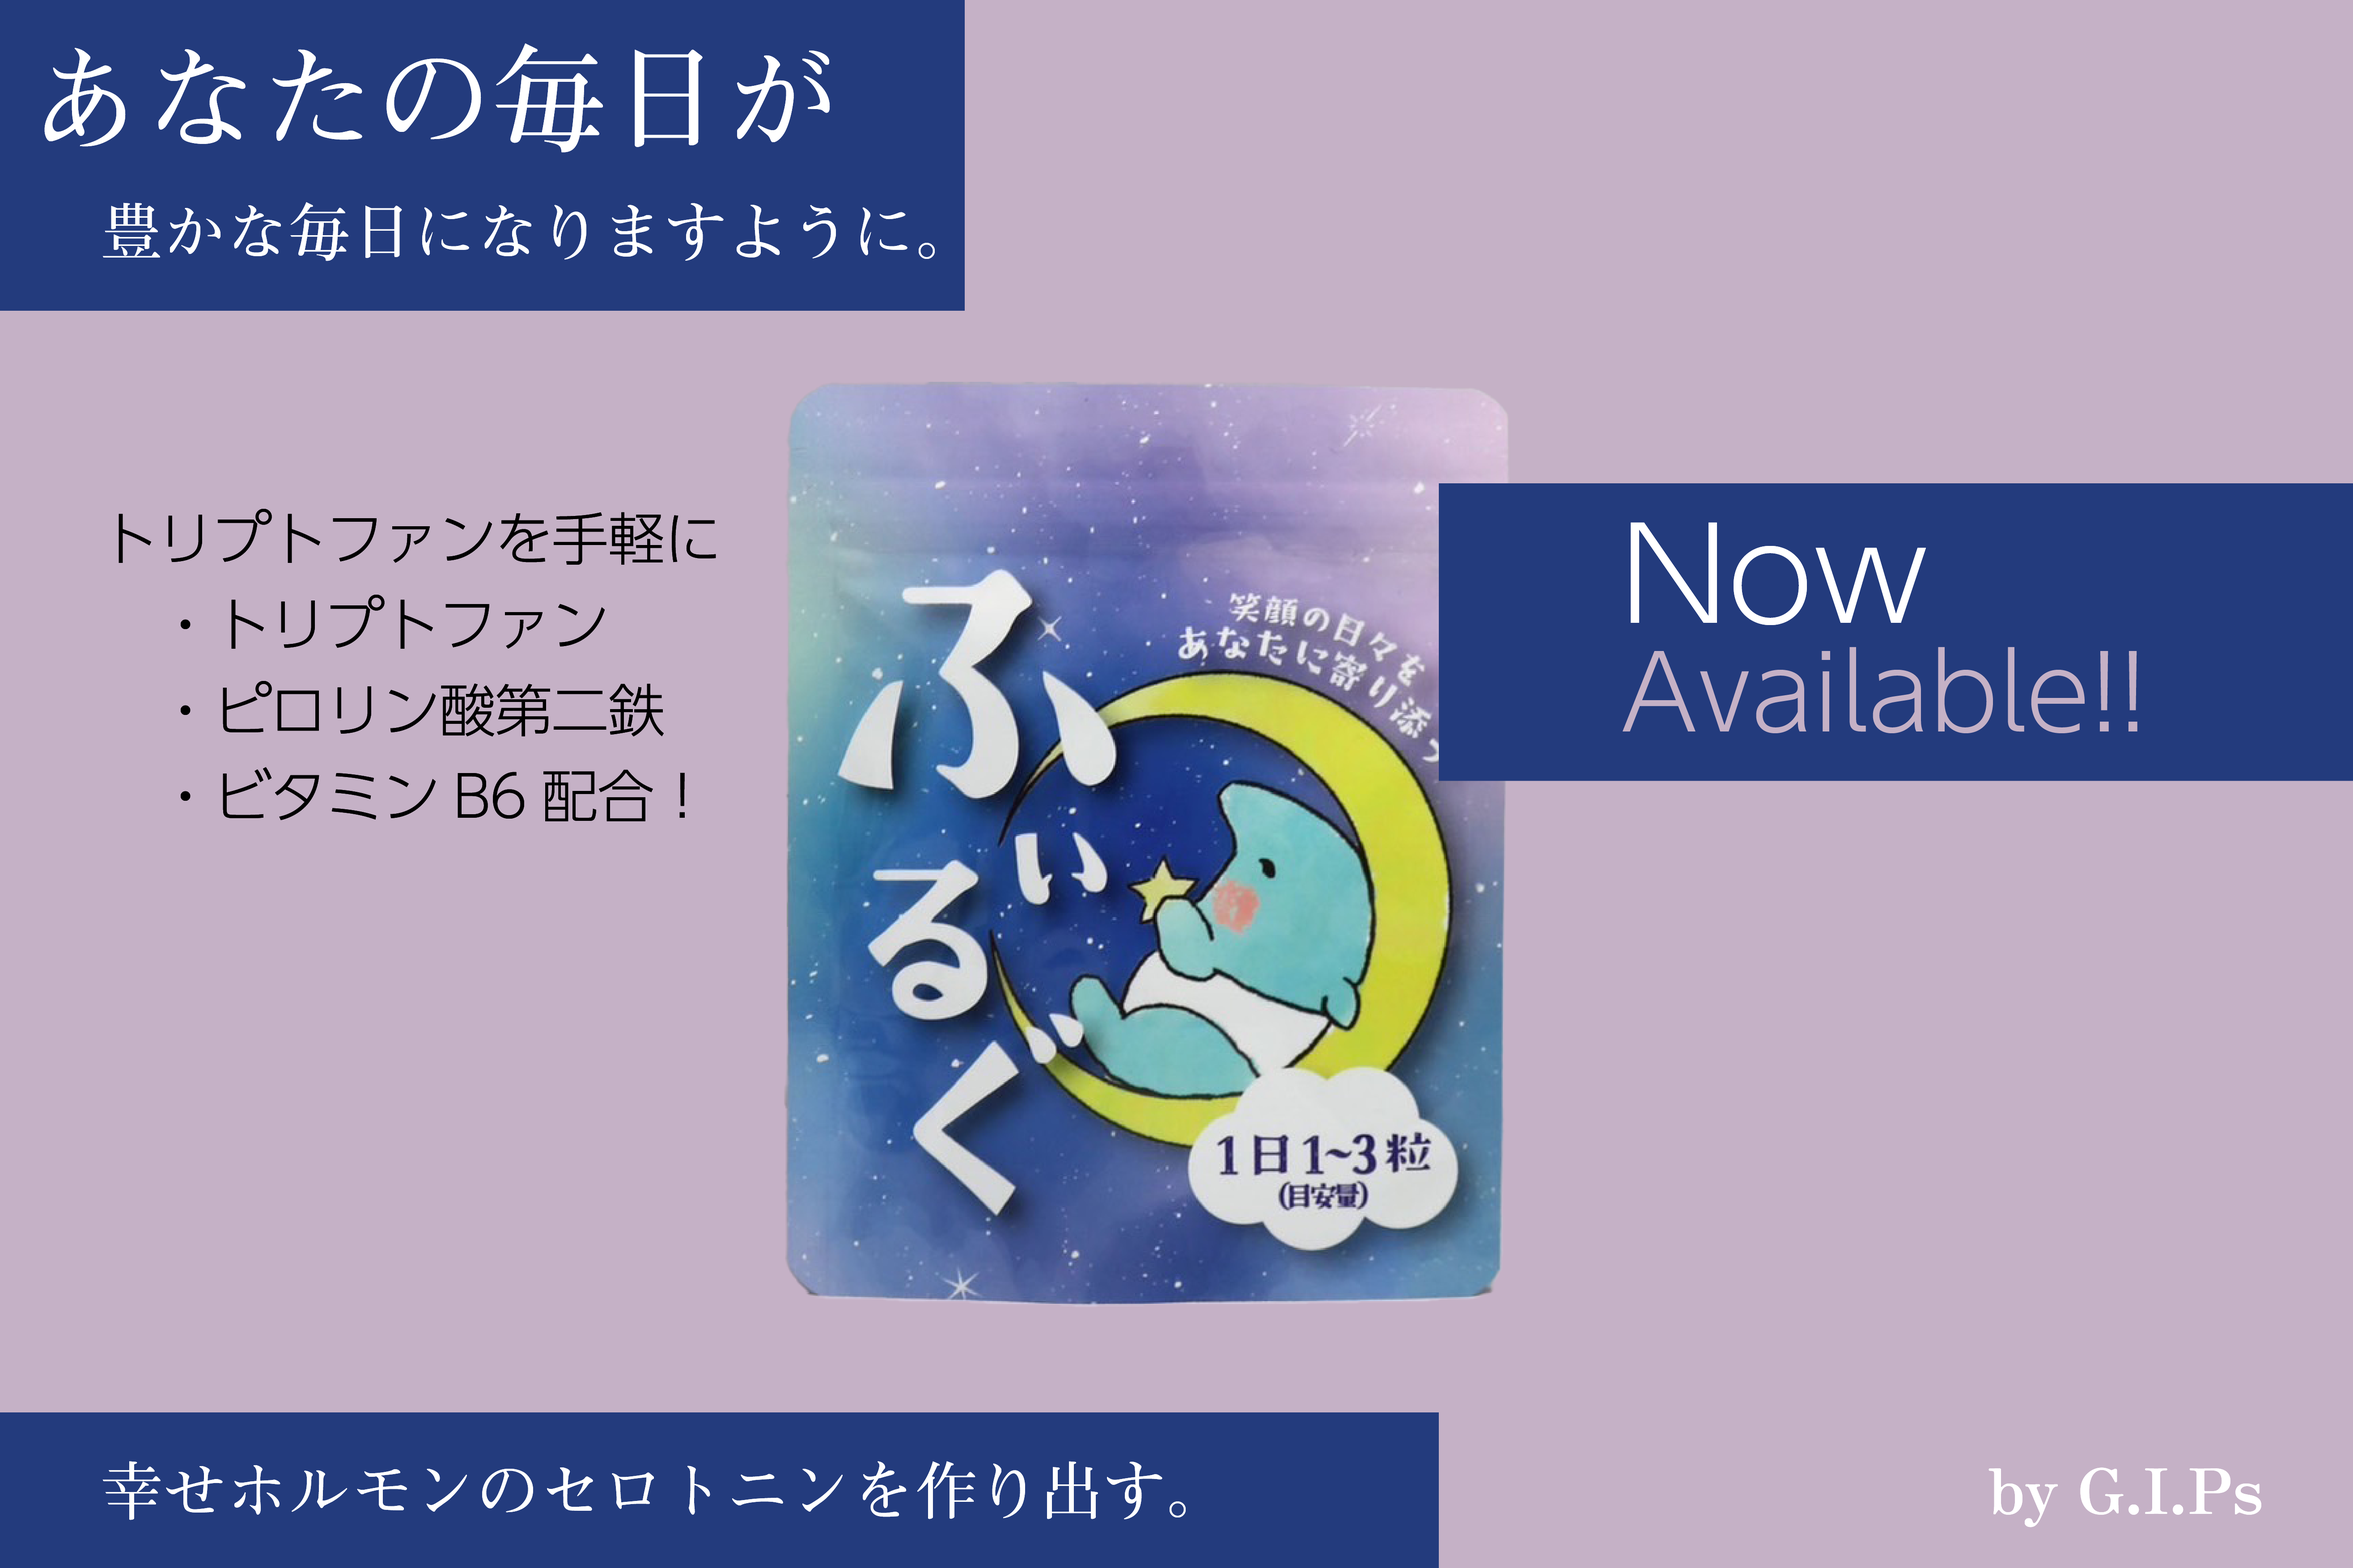
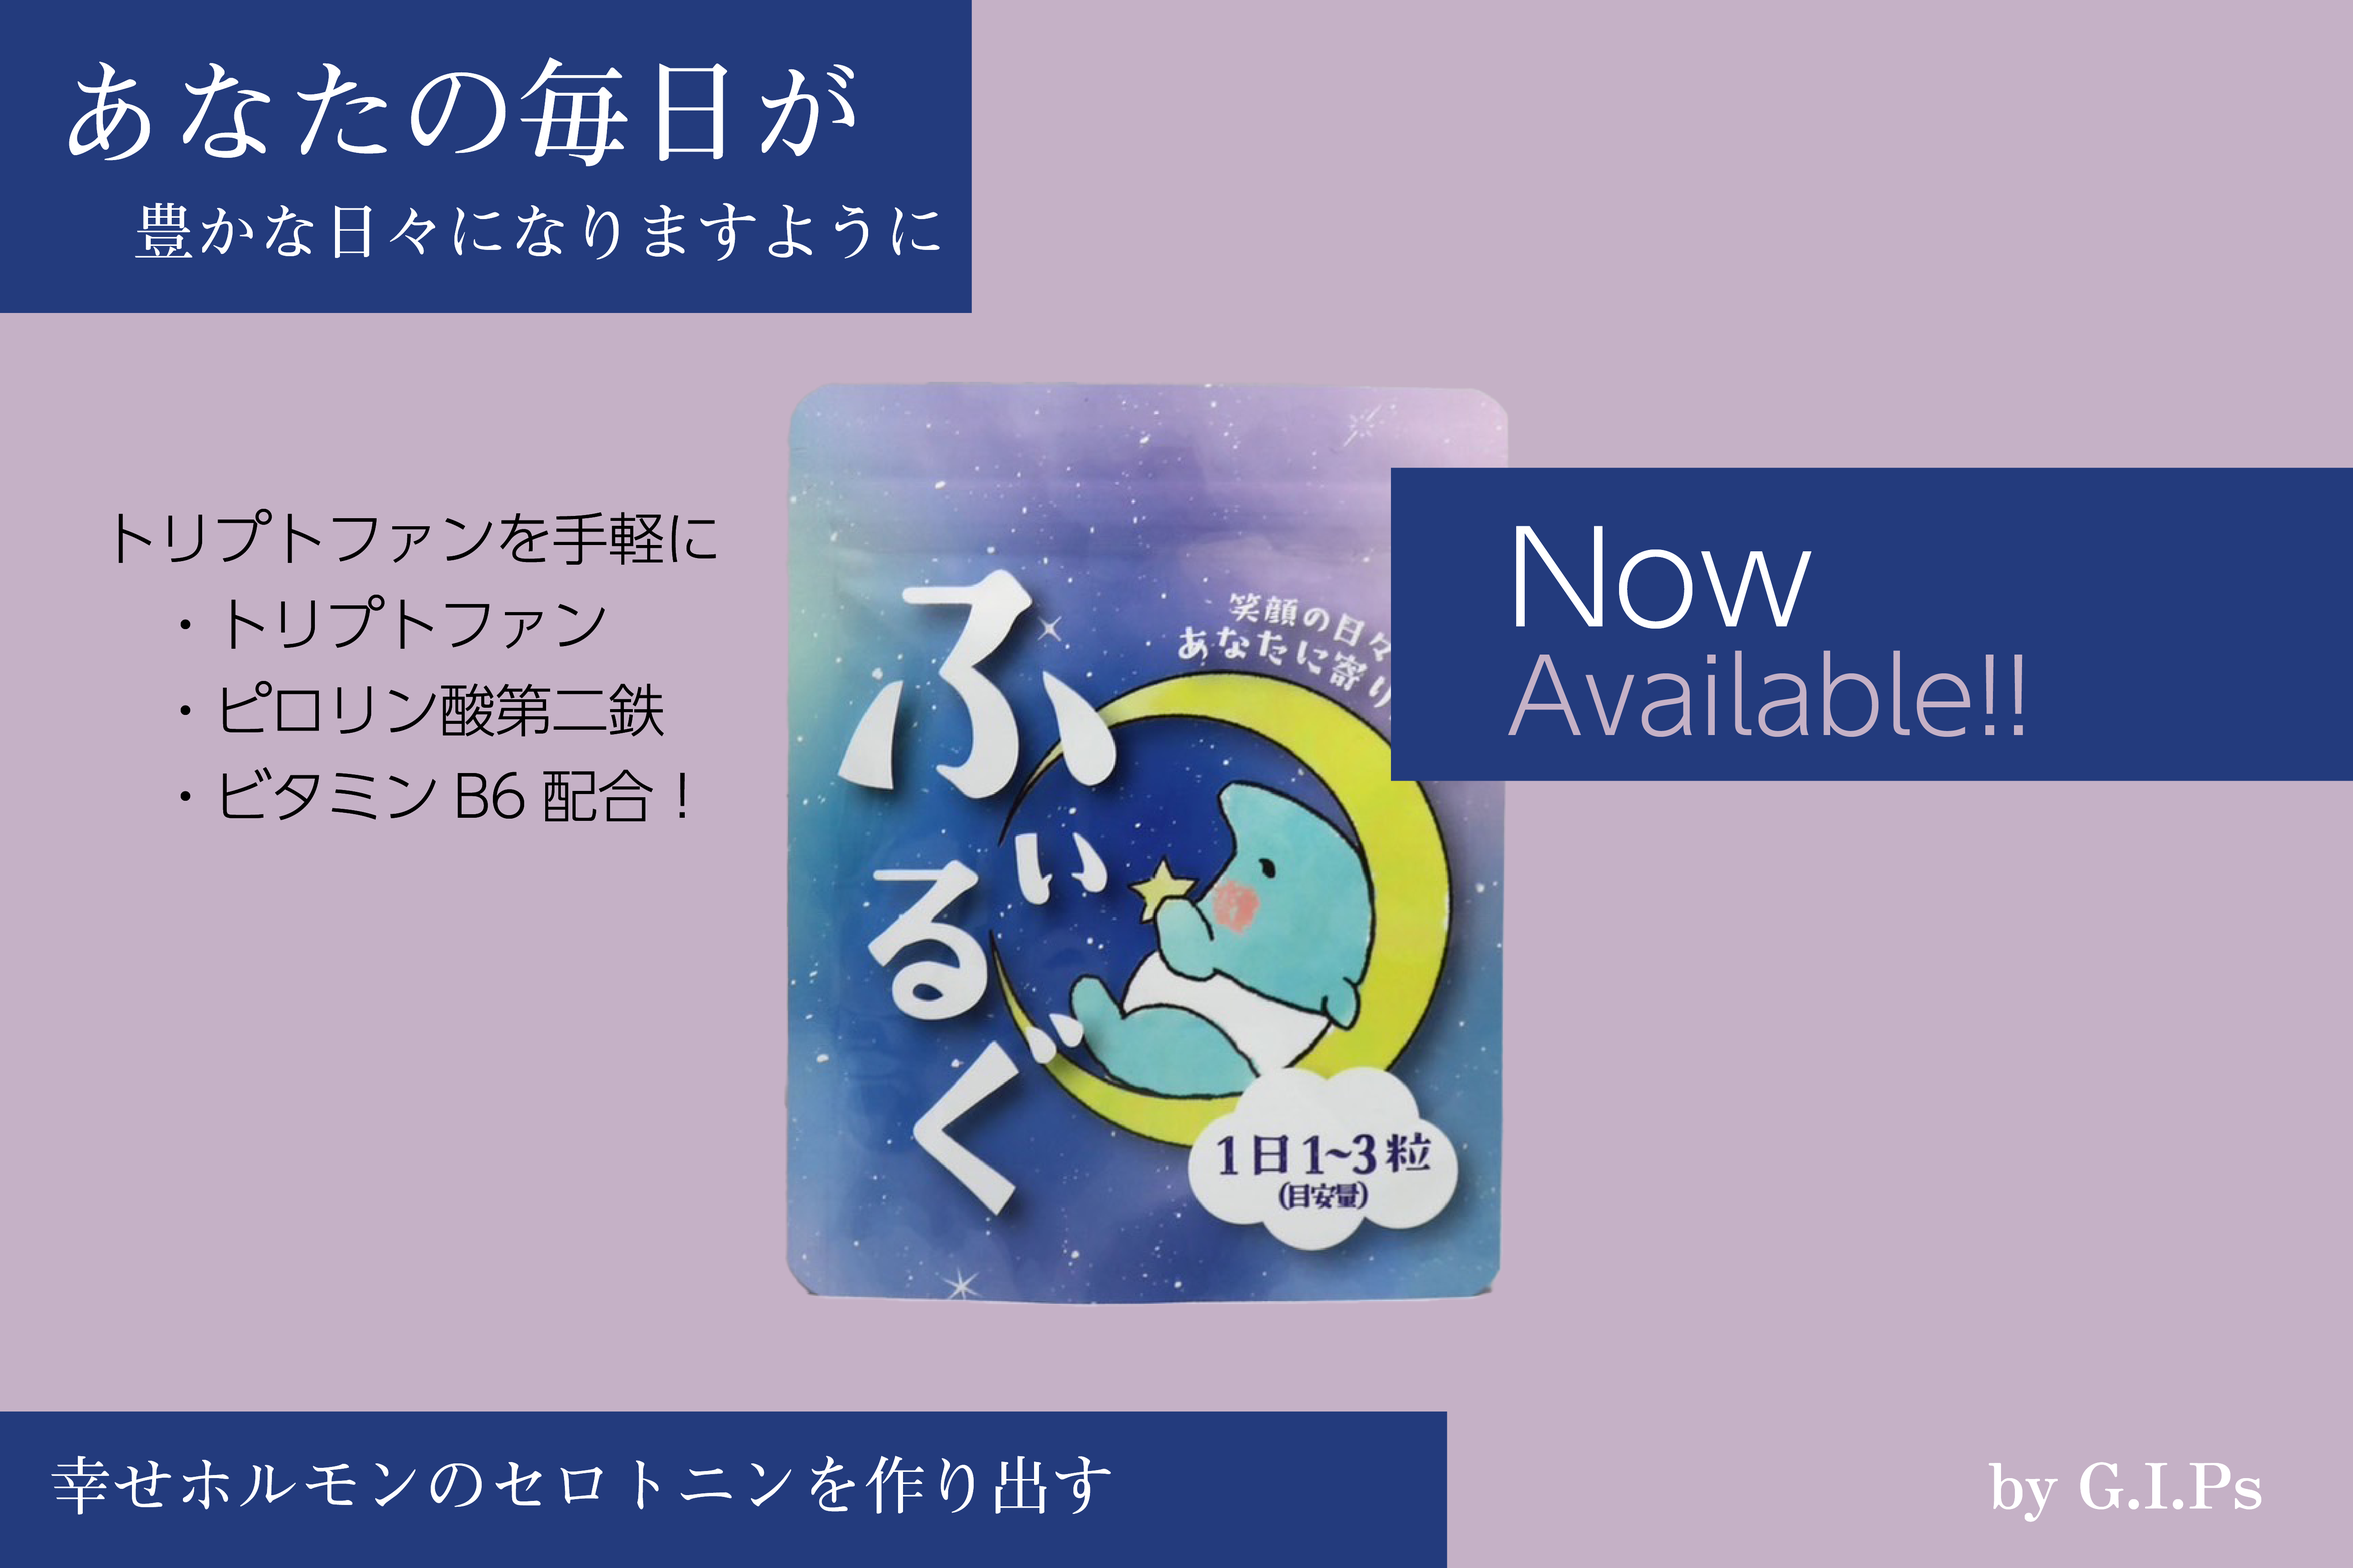
fix: 最終画面

diff --git a/src/components/features/GipsDescription.tsx b/src/components/features/GipsDescription.tsx
@@ -25,7 +25,7 @@ function GipsDescription() {
       <CustomLeftText text="トリプトファンが不足するとセロトニンの分泌低下が起こり、" />
       <CustomLeftText text="不眠、不安感、うつ病、意識の低下などの症状に繋がります。" />
       <CustomBr />
-      <CustomLeftText text="あなたの毎日が豊かな日々になりますように。" />
+      <CustomLeftText text="あなたの毎日が豊かな日々になりますように" />
     </Description>
   );
 }
